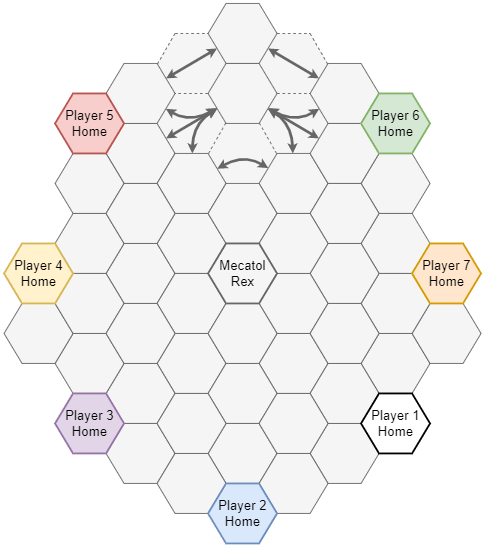
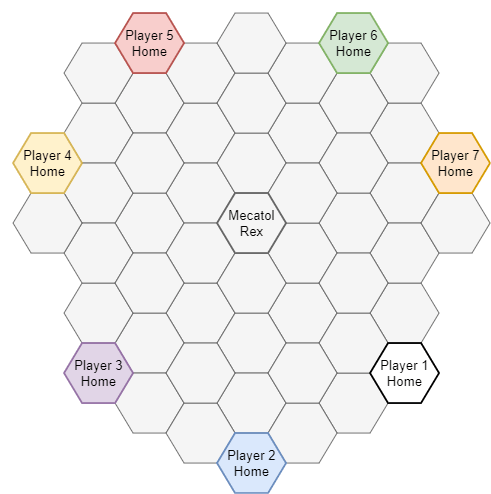
Edit the 7 player small layout.

diff --git a/source/Tiles.hpp b/source/Tiles.hpp
@@ -512,8 +512,8 @@ template <> std::set<Tile> const Tiles<Layout::Players7Small>{
   {Position{1, 3}},
   {Position{1, 4}},
   {Position{1, 5}},
-  {Position{2, 0}, "85A-3"},
-  {Position{2, 1}, {Position{2, 11}, Position{3, 0}}},
+  {Position{2, 0}},
+  {Position{2, 1}},
   {Position{2, 2}},
   {Position{2, 3}},
   {Position{2, 4}},
@@ -523,10 +523,10 @@ template <> std::set<Tile> const Tiles<Layout::Players7Small>{
   {Position{2, 8}},
   {Position{2, 9}},
   {Position{2, 10}},
-  {Position{2, 11}, {Position{2, 1}, Position{3, 0}}},
-  {Position{3, 0}, {Position{2, 1}, Position{2, 11}, Position{3, 2}, Position{3, 16}, Position{4, 2}, Position{4, 22}}},
-  {Position{3, 1}, "87A-3"},
-  {Position{3, 2}, {Position{3, 0}}},
+  {Position{2, 11}},
+  {Position{3, 0}},
+  {Position{3, 1}},
+  {Position{3, 2}},
   {Position{3, 3}},
   {Position{3, 4}},
   {Position{3, 5}},
@@ -540,14 +540,12 @@ template <> std::set<Tile> const Tiles<Layout::Players7Small>{
   {Position{3, 13}},
   {Position{3, 14}},
   {Position{3, 15}},
-  {Position{3, 16}, {Position{3, 0}}},
-  {Position{3, 17}, "88A-3"},
-  {Position{4, 0}, {Position{4, 2}, Position{4, 22}}},
-  {Position{4, 1}, "84A-3"},
-  {Position{4, 2}, {Position{3, 0}, Position{4, 0}}},
-  {Position{4, 3}, Player::Player6},
-  {Position{4, 6}, Player::Player7},
-  {Position{4, 7}},
+  {Position{3, 16}},
+  {Position{3, 17}},
+  {Position{4, 2}, Player::Player6},
+  {Position{4, 3}},
+  {Position{4, 5}, Player::Player7},
+  {Position{4, 6}},
   {Position{4, 9}, Player::Player1},
   {Position{4, 10}},
   {Position{4, 11}},
@@ -555,11 +553,10 @@ template <> std::set<Tile> const Tiles<Layout::Players7Small>{
   {Position{4, 13}},
   {Position{4, 14}},
   {Position{4, 15}, Player::Player3},
-  {Position{4, 17}},
-  {Position{4, 18}, Player::Player4},
-  {Position{4, 21}, Player::Player5},
-  {Position{4, 22}, {Position{3, 0}, Position{4, 0}}},
-  {Position{4, 23}, "83A-3"}
+  {Position{4, 18}},
+  {Position{4, 19}, Player::Player4},
+  {Position{4, 21}},
+  {Position{4, 22}, Player::Player5}
 };
 
 template <> std::set<Tile> const Tiles<Layout::Players7Large>{

diff --git a/source/Layouts.hpp b/source/Layouts.hpp
@@ -167,7 +167,7 @@ std::unordered_map<SystemCategory, std::unordered_map<Layout, uint8_t>> const sy
     {Layout::Players6Regular, 0},
     {Layout::Players6Large, 0},
     {Layout::Players7Regular, 0},
-    {Layout::Players7Small, 0},
+    {Layout::Players7Small, 1},
     {Layout::Players7Large, 3},
     {Layout::Players8Regular, 0},
     {Layout::Players8Small, 0},
@@ -187,7 +187,7 @@ std::unordered_map<SystemCategory, std::unordered_map<Layout, uint8_t>> const sy
     {Layout::Players6Regular, 0},
     {Layout::Players6Large, 0},
     {Layout::Players7Regular, 0},
-    {Layout::Players7Small, 0},
+    {Layout::Players7Small, 1},
     {Layout::Players7Large, 2},
     {Layout::Players8Regular, 0},
     {Layout::Players8Small, 0},

diff --git a/README.md b/README.md
@@ -228,7 +228,7 @@ ti4cartographer --players 7 --layout regular
 [^ Back to Board Layouts](#board-layouts)
 
 ### Board Layout: 7 Players Small
-4 planetary systems and 2 anomaly/wormhole/empty systems per player. Uses hyperlanes.
+4 planetary systems and 2 anomaly/wormhole/empty systems per player, with 1 additional planetary system and 1 additional anomaly/wormhole/empty system. Uses hyperlanes.
 
 ```
 ti4cartographer --players 7 --layout small
